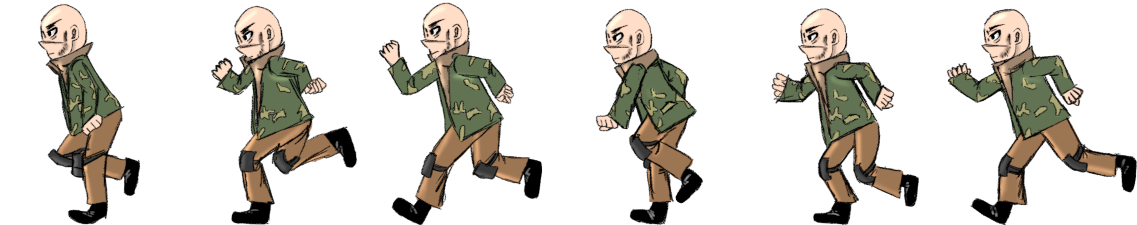
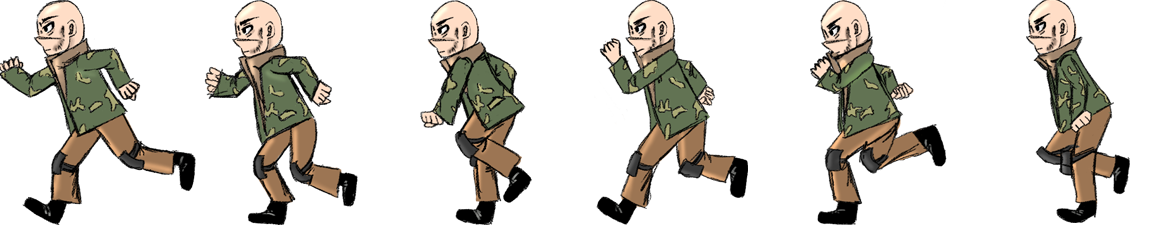
Alterações

diff --git a/Classes/Personagens.py b/Classes/Personagens.py
@@ -16,13 +16,18 @@ class Personagem:
         # Configurações Animação
         self.numero_sprites = 1
         self.tempo_animacao = 100
-        self.personagem = Sprite("Imagens/personagem-parado.png", self.numero_sprites)
-
+        self.sprite_jogador = Sprite("Imagens/personagem-parado.png", 1)
+        self.sprite_jogador_E = Sprite("Imagens/personagem-parado-E.png", 1)
+        self.sprite_jogador_correndo_D = Sprite("Imagens/personagem-correndo-direita.png", 6)
+        self.sprite_jogador_correndo_D.set_sequence_time(0, 6, 120, True)
+        self.sprite_jogador_correndo_E = Sprite("Imagens/personagem-correndo-esquerda.png", 6)
+        self.sprite_jogador_correndo_E.set_sequence_time(0, 6, 120, True)
         # Dados do Personagem
         self.vida = 100
         self.vida_maxima = 100
         self.velocidade = 500
-        self.arma_equipada = 1
+        self.slot_equipado = 1
+        self.ultimo_slot = 1
 
     def fisica(self, janela, sprite_jogador):
         # Atribuições
@@ -72,6 +77,24 @@ class Personagem:
         elif personagem.y > janela.height - personagem.height:
             personagem.y = janela.height - personagem.height
 
+    def troca_sprite_armas(self, sprite_jogador, inventario):
+        if inventario.alterou_inventario or self.slot_equipado != self.ultimo_slot:
+            x = sprite_jogador.x
+            y = sprite_jogador.y
+            if inventario.inventario[self.slot_equipado - 1] != 0:
+                nome = "-" + inventario.inventario[self.slot_equipado - 1].__class__.__name__ + ".png"
+            else:
+                nome = ".png"
+            self.sprite_jogador = Sprite("Imagens/personagem-parado" + nome, 1)
+            self.sprite_jogador_E = Sprite("Imagens/personagem-parado-E" + nome, 1)
+            self.sprite_jogador_correndo_D = Sprite("Imagens/personagem-correndo-direita" + nome, 6)
+            self.sprite_jogador_correndo_D.set_sequence_time(0, 6, 120, True)
+            self.sprite_jogador_correndo_E = Sprite("Imagens/personagem-correndo-esquerda" + nome, 6)
+            self.sprite_jogador_correndo_E.set_sequence_time(0, 6, 120, True)
+            self.sprite_jogador.x = x
+            self.sprite_jogador.y = y
+            self.ultimo_slot = self.slot_equipado
+            inventario.alterou_inventario = False
 
 class Inimigos(Personagem):
 

diff --git a/main.py b/main.py
@@ -1,4 +1,4 @@
-from Classes.Personagens import Personagem
+from Classes.Personagens import *
 from Classes.VariaveisGerais import InformacoesBase
 from Classes.Cenarios import *
 from PPlay.sprite import *
@@ -20,14 +20,11 @@ cenario_atual = cenario_0
 
 # Jogador
 jogador = Personagem()
-sprite_jogador = Sprite("Imagens/personagem-parado.png", 1)
-sprite_jogador_E = Sprite("Imagens/personagem-parado-E.png", 1)
-sprite_jogador_correndo_D = Sprite("Imagens/personagem-correndo-direita.png", 6)
-sprite_jogador_correndo_D.set_sequence_time(0, 6, 120, True)
-sprite_jogador_correndo_E = Sprite("Imagens/personagem-correndo-esquerda.png", 6)
-sprite_jogador_correndo_E.set_sequence_time(0, 6, 120, True)
 ultimo_mov_D = True
+sprite_jogador = jogador.sprite_jogador
 sprite_jogador.y = 400
+
+inimigo = Inimigos()
 
 # Barra de Vida
 barra_de_vida = BarraVida(jogador, janela)
@@ -36,10 +33,16 @@ barra_de_vida = BarraVida(jogador, janela)
 while True:
     ################### Entrada de Dados ######################
 
+    sprite_jogador = jogador.sprite_jogador
+    sprite_jogador_correndo_D = jogador.sprite_jogador_correndo_D
+    sprite_jogador_correndo_E = jogador.sprite_jogador_correndo_E
+    sprite_jogador_E = jogador.sprite_jogador_E
+
     ################### Updates ###############################
+
     cenario_atual = eval(cenario_atual.proxima_fase(sprite_jogador))
     itens_cenario_atual = cenario_atual.itens
-
+    jogador.troca_sprite_armas(sprite_jogador, inventario)
     if not teclado.key_pressed("I"):
         tecla_solta = True
     ################### Game Physics ##########################

diff --git a/Classes/Inventario.py b/Classes/Inventario.py
@@ -19,6 +19,7 @@ class Inventario:
         # Posição dos Itens
         self.posicoes_item = []
         self.preenche_posicoes_inventario()
+        self.alterou_inventario = False
 
     def preenche_posicoes_inventario(self):
         self.posicoes_item = [[self.pos_x_0, self.pos_y_0],
@@ -48,9 +49,11 @@ class Inventario:
         # Se existir, adiciona o item nele
         if ind != "Sem Espaço":
             self.inventario[ind] = item
+        self.alterou_inventario = True
 
     def retira_do_inventario(self, indice):
         self.inventario[indice] = 0
+        self.alterou_inventario = True
 
     def mostra_inventario(self):
         # Atribuições
